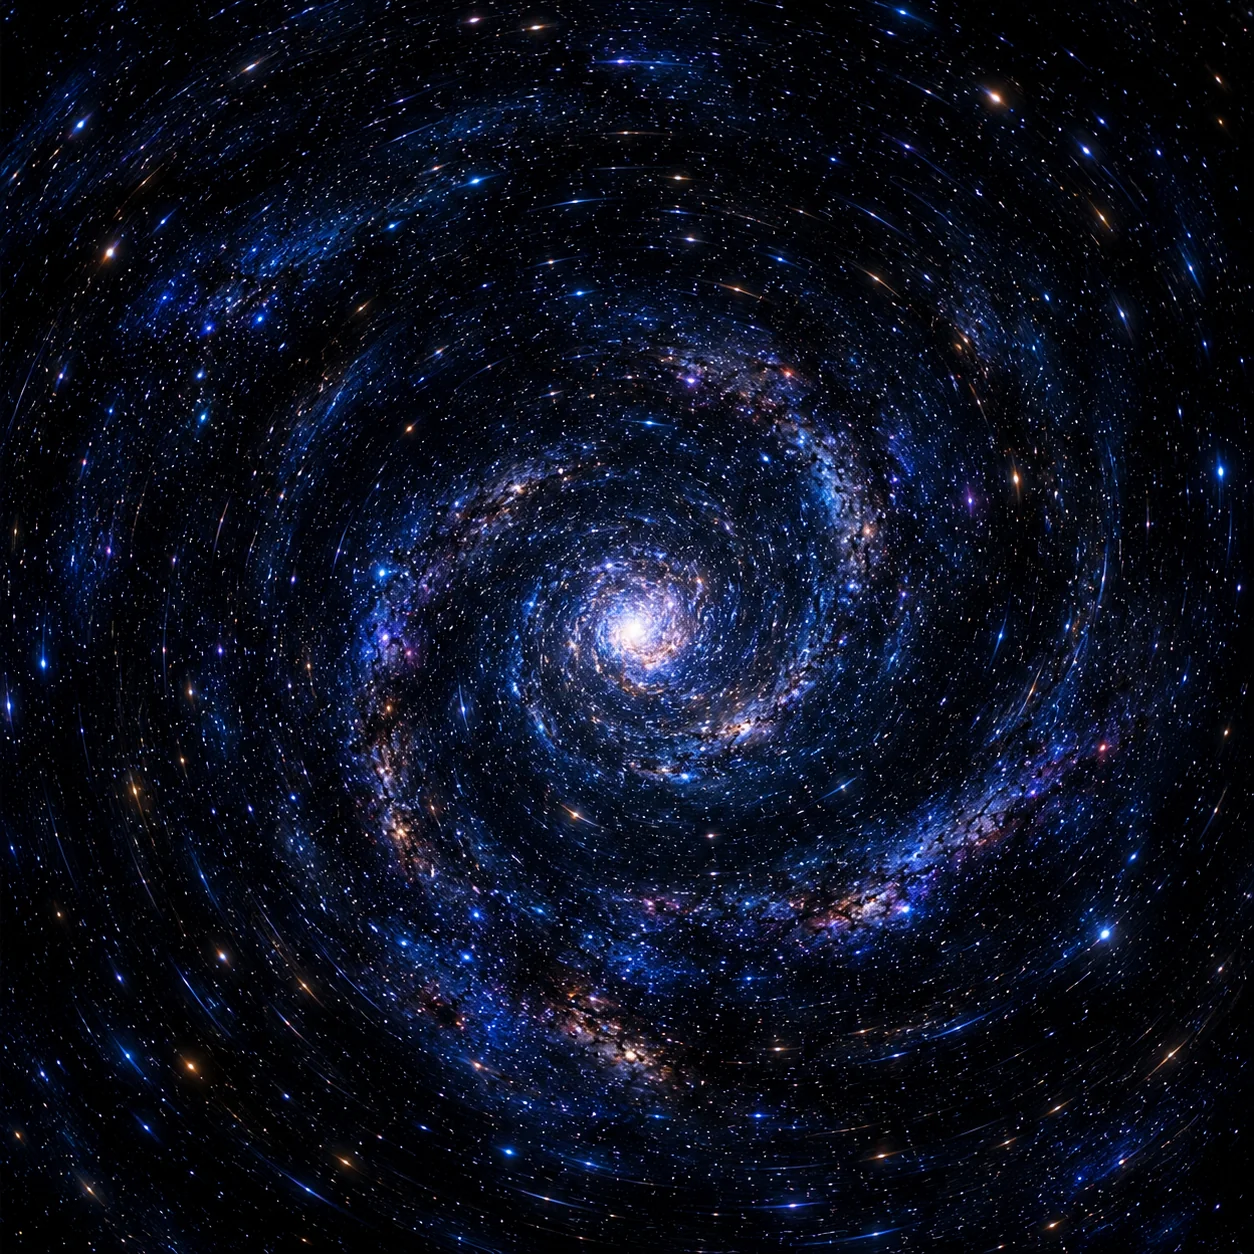
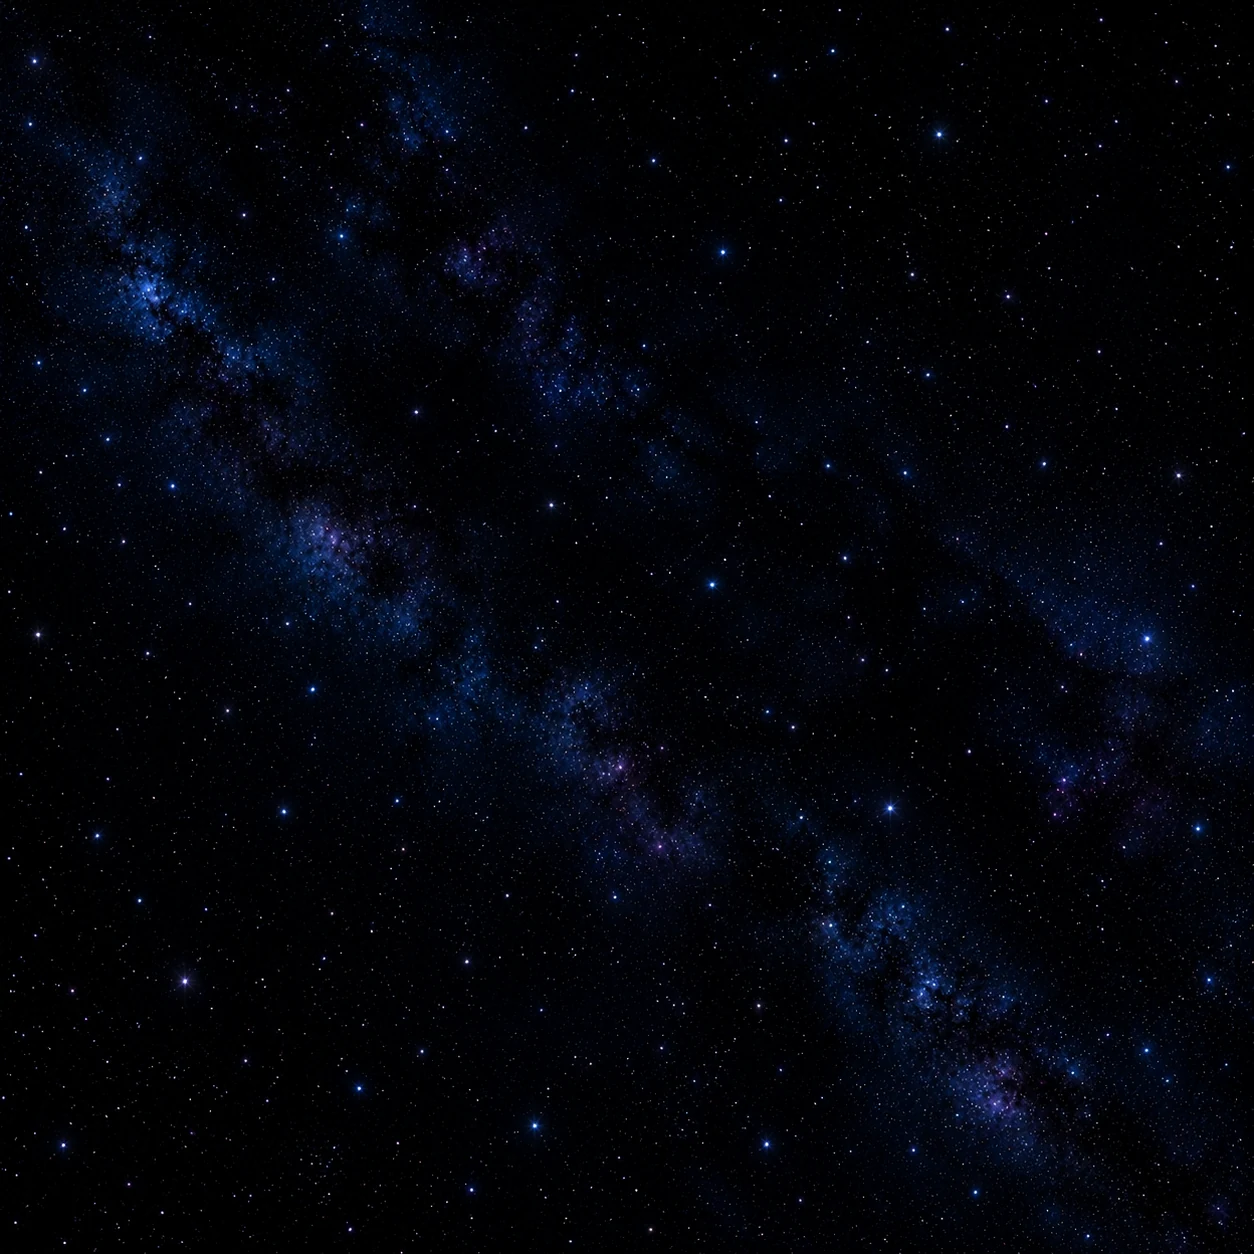
New landing sky

diff --git a/frontend/src/styles/tsukuyomi.css b/frontend/src/styles/tsukuyomi.css
@@ -257,7 +257,7 @@ footer.foot { border-top: 1px solid var(--rule); background: none; }
   --p: 0; --rot: 0deg; --gscale: 1.05; --arm: 0deg; --rib: 0deg; --ribs: 1; --scene: 1.06; }
 .lp-sky { position: absolute; left: 52%; top: 30%; width: 165vmax; aspect-ratio: 1; z-index: 0;
   transform: translate(-50%, -50%) rotate(var(--rot)) scale(var(--gscale)); will-change: transform; }
-.lp-sky img { width: 100%; height: 100%; display: block; object-fit: cover; filter: saturate(1.1) brightness(.95); }
+.lp-sky img { width: 100%; height: 100%; display: block; object-fit: cover; filter: saturate(1.15) brightness(1.18) contrast(1.05); }
 .lp-glow { position: absolute; inset: 0; z-index: 1; pointer-events: none;
   background: radial-gradient(70% 28% at 50% 62%, rgba(110, 140, 230, .22), transparent 70%),
               linear-gradient(180deg, rgba(4,5,10,.55) 0%, transparent 22%); }
